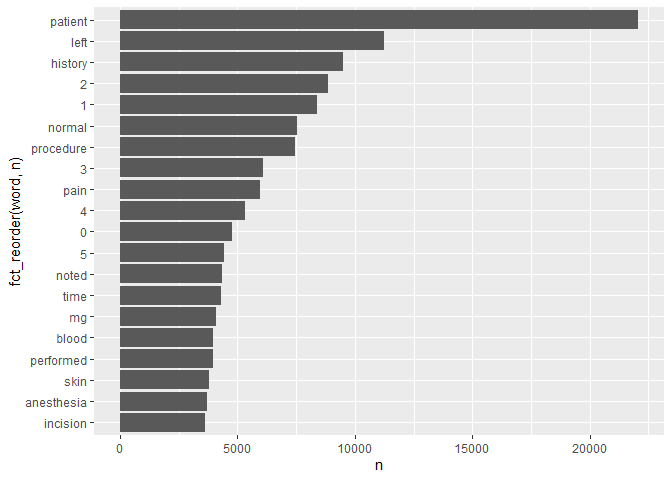
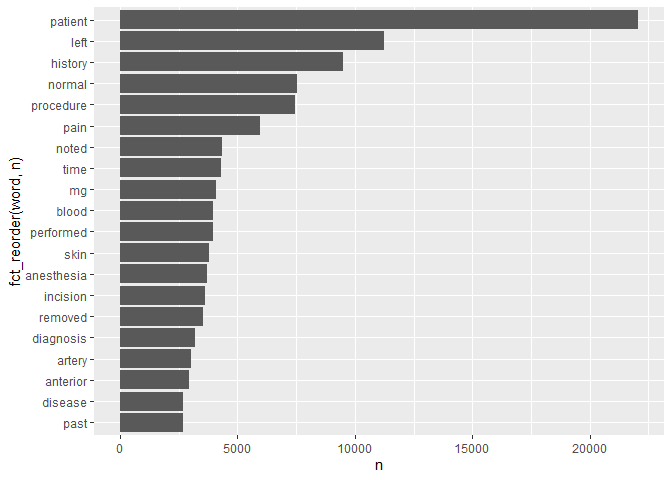
Question 5

Changed region(s): [[0.25, 0.1562, 0.5, 0.9062], [0.0312, 0.1562, 0.125, 0.625], [0.0312, 0.6562, 0.125, 0.9062]]

diff --git a/Lab06/README.md b/Lab06/README.md
@@ -100,6 +100,8 @@ mtsamples %>%
   unnest_tokens(output = word, input = transcription) %>%
   count(word, sort = TRUE) %>%
   anti_join(stop_words, by = "word") %>%
+  #using regular expressions to remove numbers
+  filter(!grepl("^[0-9]+$", x = word)) %>% #"grepl" tells logical vector, "^" is the beginning of the word, "$" is the end of the word, "+" tells it should be repeated at least once
   top_n(20) %>%
   ggplot(aes(x = n, y = fct_reorder(word, n))) +
   geom_col()
@@ -109,7 +111,153 @@ mtsamples %>%
 
 ![](README_files/figure-gfm/unnamed-chunk-1-1.png)<!-- -->
 
-How to push the file in Terminal using command lines: git add
-lab06/README git status git commit -a -m “Starting with lab06” git push
+\#Question 4 repeat question 2, but this time tokenize into bi-grams.
+how does the result change if you look at tri-grams?
 
-How to remove the file on track: git rm –cache -r lab06/README\_cache
+``` r
+library(Rcpp)
+```
+
+    ## Warning: package 'Rcpp' was built under R version 4.1.1
+
+``` r
+mtsamples %>%
+  unnest_ngrams(output = bigram, input = transcription, n = 2) %>%
+  count(bigram, sort = TRUE) %>%
+  top_n(20) %>%
+  ggplot(aes(x = n, y = fct_reorder(bigram, n))) +
+  geom_col()
+```
+
+    ## Selecting by n
+
+![](README_files/figure-gfm/bi-grams-transcript-1.png)<!-- -->
+
+``` r
+mtsamples %>%
+  unnest_ngrams(output = trigram, input = transcription, n = 3) %>%
+  count(trigram, sort = TRUE) %>%
+  top_n(20) %>%
+  ggplot(aes(x = n, y = fct_reorder(trigram, n))) +
+  geom_col()
+```
+
+    ## Selecting by n
+
+![](README_files/figure-gfm/tri-grams-transcript-1.png)<!-- -->
+
+Now some phrases start to show up, e.g., “tolerated the procedure”,
+“prepped and draped.”
+
+\#Question 5 Using the results you got from questions 4. Pick a word and
+count the words that appears after and before it.
+
+``` r
+bigrams <- mtsamples %>%
+  unnest_ngrams(output = bigram, input = transcription, n = 2) %>%
+  separate(bigram, into = c("w1", "w2")) %>%
+  filter((w1 == "history") | (w2 == "history"))
+```
+
+    ## Warning: Expected 2 pieces. Additional pieces discarded in 31317 rows [600,
+    ## 601, 738, 739, 981, 982, 984, 985, 991, 992, 1314, 1315, 1491, 1492, 2076, 2077,
+    ## 2835, 2836, 3853, 3854, ...].
+
+``` r
+bigrams %>%
+  filter(w1 == "history") %>%
+  select(w1, w2) %>%
+  count(w2, sort = TRUE)
+```
+
+    ## # A tibble: 366 x 2
+    ##    w2                  n
+    ##    <chr>           <int>
+    ##  1 of               4537
+    ##  2 the               761
+    ##  3 she               279
+    ##  4 he                227
+    ##  5 significant       200
+    ##  6 this              200
+    ##  7 and               197
+    ##  8 1                 181
+    ##  9 is                172
+    ## 10 noncontributory   121
+    ## # ... with 356 more rows
+
+``` r
+bigrams %>%
+  filter(w2 == "history") %>%
+  select(w1, w2) %>%
+  count(w2, sort = TRUE) 
+```
+
+    ## # A tibble: 1 x 2
+    ##   w2          n
+    ##   <chr>   <int>
+    ## 1 history  9078
+
+Since we are looking at single words agian, it is a good idea to treat
+these as singe token. So let’s remove the stop words and numbers.
+
+``` r
+bigrams %>%
+  filter(w1 == "history") %>% #keeping rows with history of first word
+  filter(!(w2 %in% stop_words$word) & !grepl("^[0-9]+$", w2)) %>% #do not include words with stop words or numbers
+  count(w2, sort = TRUE) %>%
+  top_n(10) %>%
+  knitr::kable() 
+```
+
+    ## Selecting by n
+
+| w2              |   n |
+|:----------------|----:|
+| significant     | 200 |
+| noncontributory | 121 |
+| patient         | 106 |
+| negative        |  96 |
+| positive        |  87 |
+| unremarkable    |  53 |
+| hypertension    |  50 |
+| includes        |  47 |
+| mother          |  43 |
+| history         |  42 |
+
+``` r
+bigrams %>%
+  filter(w2 == "history") %>% #keeping rows with history of first word
+  filter(!(w1 %in% stop_words$word) & !grepl("^[0-9]+$", w1)) %>% #do not include words with stop words or numbers
+  count(w1, sort = TRUE) %>%
+  top_n(10) %>%
+  knitr::kable() 
+```
+
+    ## Selecting by n
+
+| w1          |    n |
+|:------------|-----:|
+| medical     | 1223 |
+| family      |  941 |
+| social      |  865 |
+| surgical    |  491 |
+| pain        |   98 |
+| psychiatric |   90 |
+| prior       |   87 |
+| past        |   80 |
+| previous    |   72 |
+| personal    |   55 |
+
+\#Question 6 Which words are most used in each of the specialties. you
+can use group\_by() and top\_n() from dplyr to have the calculations be
+done within each specialty. Remember to remove stopwords. How about the
+most 5 used words?
+
+How to push the file in Terminal using command lines:
+
+git add lab06/README\* git status git commit -a -m “Starting with lab06”
+git push
+
+How to remove the file on track:
+
+git rm –cache -r lab06/README\_cache
